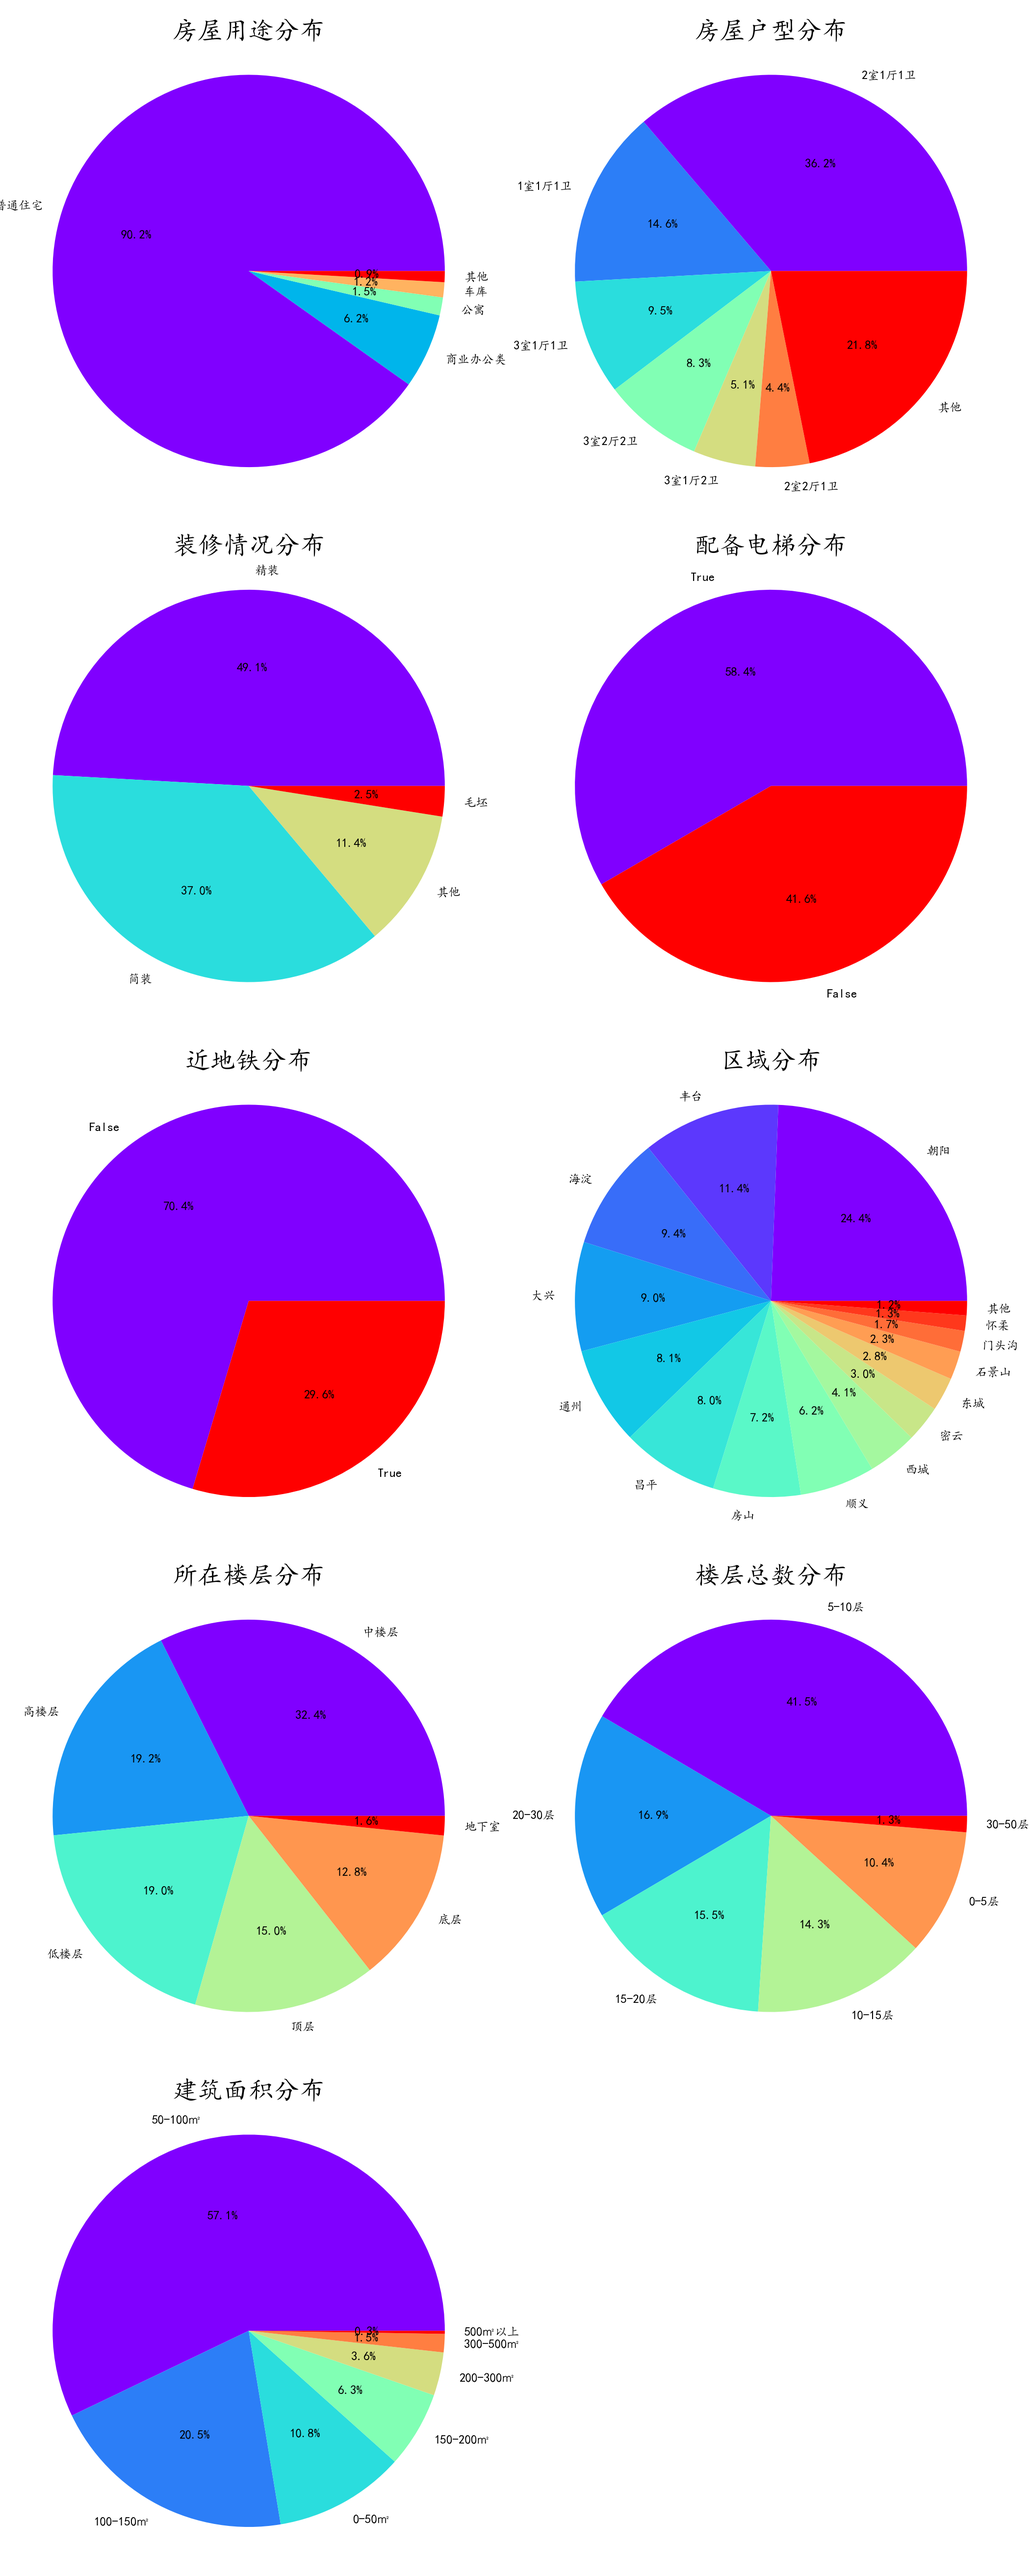
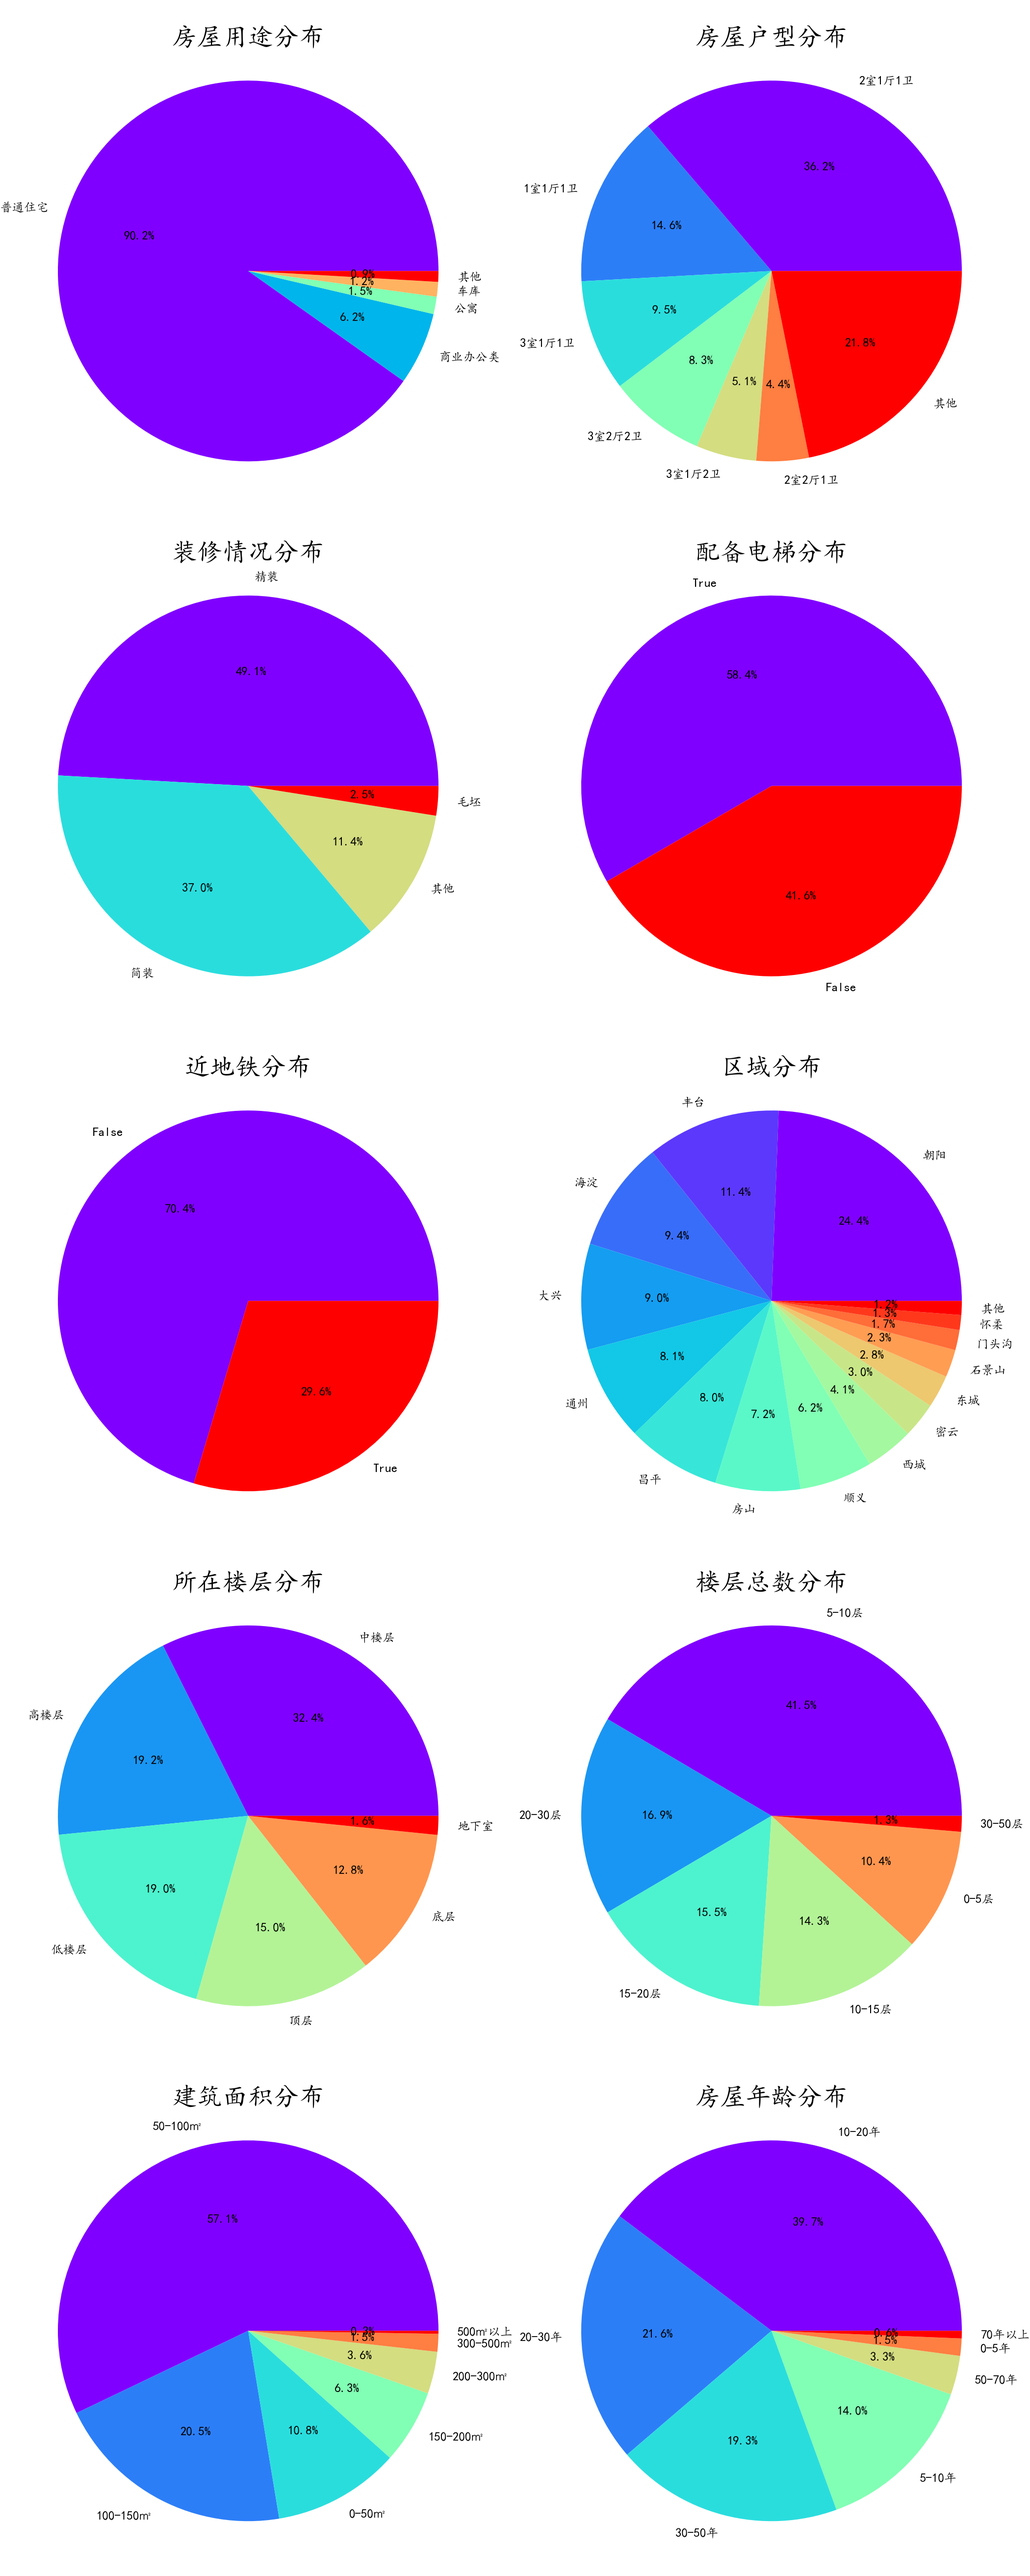
optimize part 3.1

diff --git a/analysis/ershoufang.py b/analysis/ershoufang.py
@@ -5,6 +5,7 @@ import matplotlib.pyplot as plt
 import numpy as np
 import pandas as pd
 from wordcloud import WordCloud, STOPWORDS
+from datetime import datetime
 
 from analysis.config import text_fields, cut_fields, colors, district_order, district_order_, \
     mask_image, wordcloud_image, price_by_district_distrib_image, unitprice_topk_communities_image, \
@@ -47,13 +48,14 @@ def paint_wordcloud(df):
         # plt.show()
 
 
-# 房源基本信息分布 (pie, subplots=3x3)
+# 房源基本信息分布 (pie, subplots=5x2)
 def paint_basic_info_distrib(df):
-    cols = ["房屋用途", "房屋户型", "装修情况", "配备电梯", "近地铁", "区域", "所在楼层", "楼层总数(层)", "建筑面积(㎡)"]
-    k_list = [4] + [6] * 4 + [14, 6, None, None]
-    level_list = [None] * 7 + [[0, 5, 10, 15, 20, 30, 50], [0, 50, 100, 150, 200, 300, 500, np.inf]]
-    r, c = 5, 2
-    # assert r * c == len(cols), "Error: cols length & matrix size not match"
+    cols = ["房屋用途", "房屋户型", "装修情况", "配备电梯", "近地铁", "区域", "所在楼层", "楼层总数(层)", "建筑面积(㎡)", "房屋年龄(年)"]
+    k_list = [4] + [6] * 4 + [14, 6, None, None, None]
+    level_list = [None] * 7 + [[0, 5, 10, 15, 20, 30, 50], [0, 50, 100, 150, 200, 300, 500, np.inf], [0, 5, 10, 20, 30, 50, 70, np.inf]]
+    r, c, cur_year = 5, 2, datetime.now().year
+    assert r * c == len(cols), "Error: cols length & matrix size not match"
+    df["房屋年龄(年)"] = df["建成年份"].apply(lambda x: cur_year-x)
     fig = plt.figure(figsize=(14, 35), dpi=150)
     for i, (col, k, levels) in enumerate(zip(cols, k_list, level_list)):
         title, unit = col.split("(")[0] + "分布", col.split("(")[-1].replace(")", "")
@@ -64,15 +66,15 @@ def paint_basic_info_distrib(df):
             if len(raw_value_counts) > k:
                 pie_value_counts["其他"] = raw_value_counts[k:].sum()
         else:
-            # 高离散分布（数值, 后2个）
+            # 高离散分布（数值, 后3个）
             labels = [f"{l}{unit}以上" if r == np.inf else f"{l}-{r}{unit}" for l, r in zip(levels[:-1], levels[1:])]
             pie_value_counts = pd.cut(df[col], levels, labels=labels).value_counts()
-        ax = fig.add_subplot(r * 100 + c * 10 + i + 1)
+        ax = fig.add_subplot(r, c, i + 1)
         ax.set_title(title, y=0.96, fontsize=25)
         pie_value_counts.name = ""
         # print(col, '\n', pie_value_counts)
         pie_value_counts.plot(kind="pie", colormap="rainbow", autopct="%3.1f%%", fontsize=12)
-    plt.subplots_adjust(left=0, bottom=0, right=0.99, top=0.99, wspace=0.05, hspace=0.05)  # 调整页面边距、子图间距
+    plt.subplots_adjust(left=0.01, bottom=0, right=0.98, top=0.99, wspace=0.10, hspace=0.05)  # 调整页面边距、子图间距
     fig.savefig(basic_info_distrib_image)
     plt.show()
 
@@ -222,9 +224,9 @@ if __name__ == "__main__":
     filename = proc_file.format(city_abbr, task)
     df = pd.read_csv(filename, na_values=na_values)
     # print(df.info())
-    paint_wordcloud(df)  # √
+    # paint_wordcloud(df)  # √
     paint_basic_info_distrib(df)  # √
-    paint_stats_by_district(df)  # √
-    paint_price_area_distrib(df)  # √
-    paint_unitprice_topk_communities(df)  # √
-    paint_price_by_district_distrib(df)  # √
+    # paint_stats_by_district(df)  # √
+    # paint_price_area_distrib(df)  # √
+    # paint_unitprice_topk_communities(df)  # √
+    # paint_price_by_district_distrib(df)  # √

diff --git a/analysis/config.py b/analysis/config.py
@@ -22,9 +22,14 @@ mask_image = op.join(res_dir, "house_logo.jpg")
 # Result Pictures
 pic_dir = "pics"
 ershoufang_pic_dir = op.join(pic_dir, "ershoufang")
+cross_pic_dir = op.join(pic_dir, "cross")
+# Part 3.1: Ershoufang Task
 wordcloud_image = op.join(ershoufang_pic_dir, "wordcloud-{}.png")
 basic_info_distrib_image = op.join(ershoufang_pic_dir, "basic_info_distrib_pie.png")
 stats_by_district_image = op.join(ershoufang_pic_dir, "stats_by_district_bar.png")
 price_area_distrib_image = op.join(ershoufang_pic_dir, "price_area_distrib_scatter.png")
 unitprice_topk_communities_image = op.join(ershoufang_pic_dir, "unitprice_top{}_communities_bar.png")
 price_by_district_distrib_image = op.join(ershoufang_pic_dir, "price_by_district_box.png")
+# Part 3.3: Cross Task
+house_counts_by_district_image = op.join(cross_pic_dir, "house_counts_by_district_bar.png")
+stats_by_bizcircle_image = op.join(cross_pic_dir, "stats_by_bizcircle_line.png")
